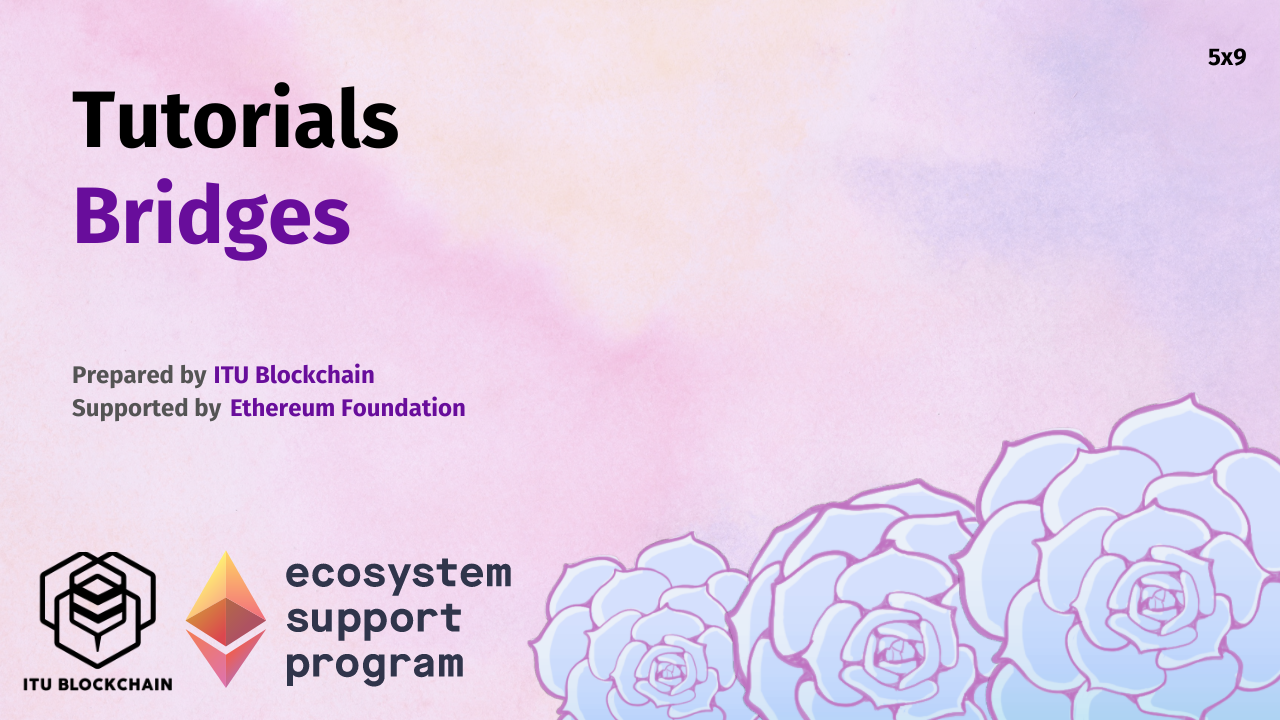
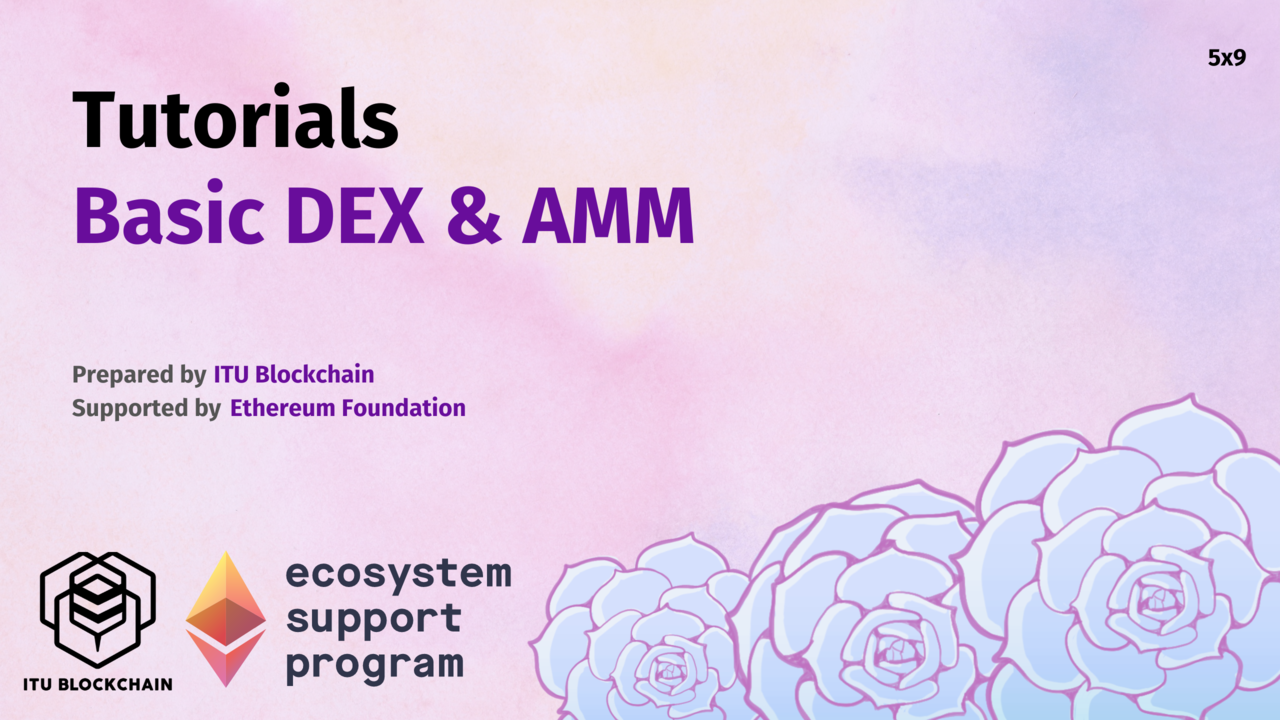
new video

diff --git a/README.md b/README.md
@@ -128,8 +128,8 @@ This part introduces some well-known usecases and contracts.
 | Tutorials         | Simple Game           | [0xulas.eth](https://twitter.com/ulerdogan)    | [Published](https://www.youtube.com/watch?v=DtnFYq_sxvU)  | 5x6  |
 | Tutorials         | Staking Contracts I   | [alimsahin.eth](https://twitter.com/aalimsahin)       | [Published](https://www.youtube.com/watch?v=BSGkOhwdx1c&ab_channel=ITUBlockchain)  | 5x7  |
 | Tutorials         | Staking Contracts II  | [alimsahin.eth](https://twitter.com/aalimsahin)       | Preparing  | 5x8  |
-| Tutorials         | Bridges               | [zetsub0ii.eth](https://twitter.com/hamza_krb) | Preparing  | 5x9  |
-| Tutorials         | DEX                   | [tahos.eth](https://twitter.com/0xTahos) | Preparing  | 5x10 |
+| Tutorials         | Basic DEX & AMM     | [tahos.eth](https://twitter.com/0xTahos) | [Published](https://youtu.be/6AUfrT1Envw)  | 5x9  |
+| Tutorials         | Bridges               | [zetsub0ii.eth](https://twitter.com/hamza_krb) | Preparing  | 5x10 |
 | Tutorials         | Patika Q&A - Staking  | [0xulas.eth](https://twitter.com/ulerdogan)    | [Published](https://www.youtube.com/watch)  | GST  |
 
 <hr/>
